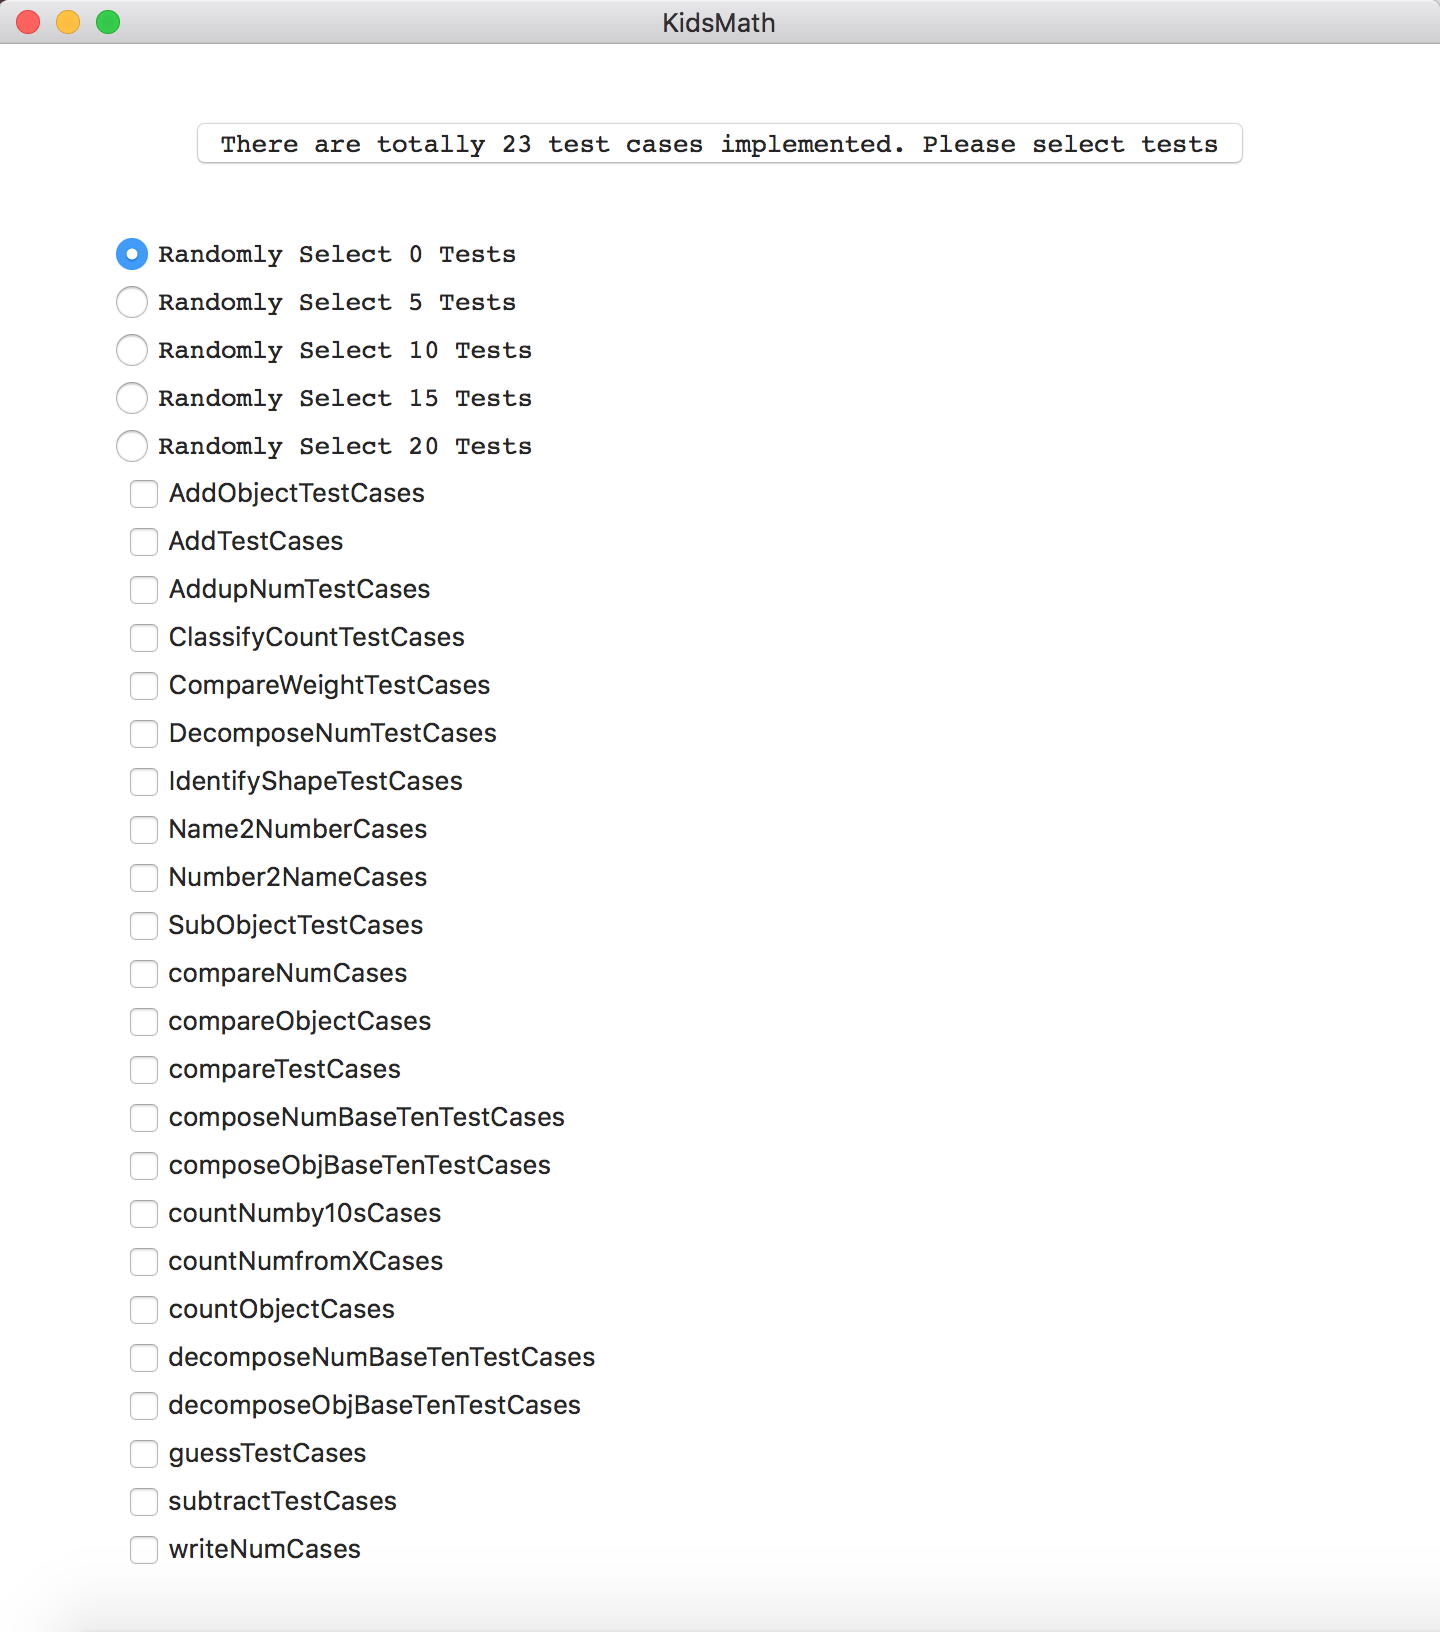
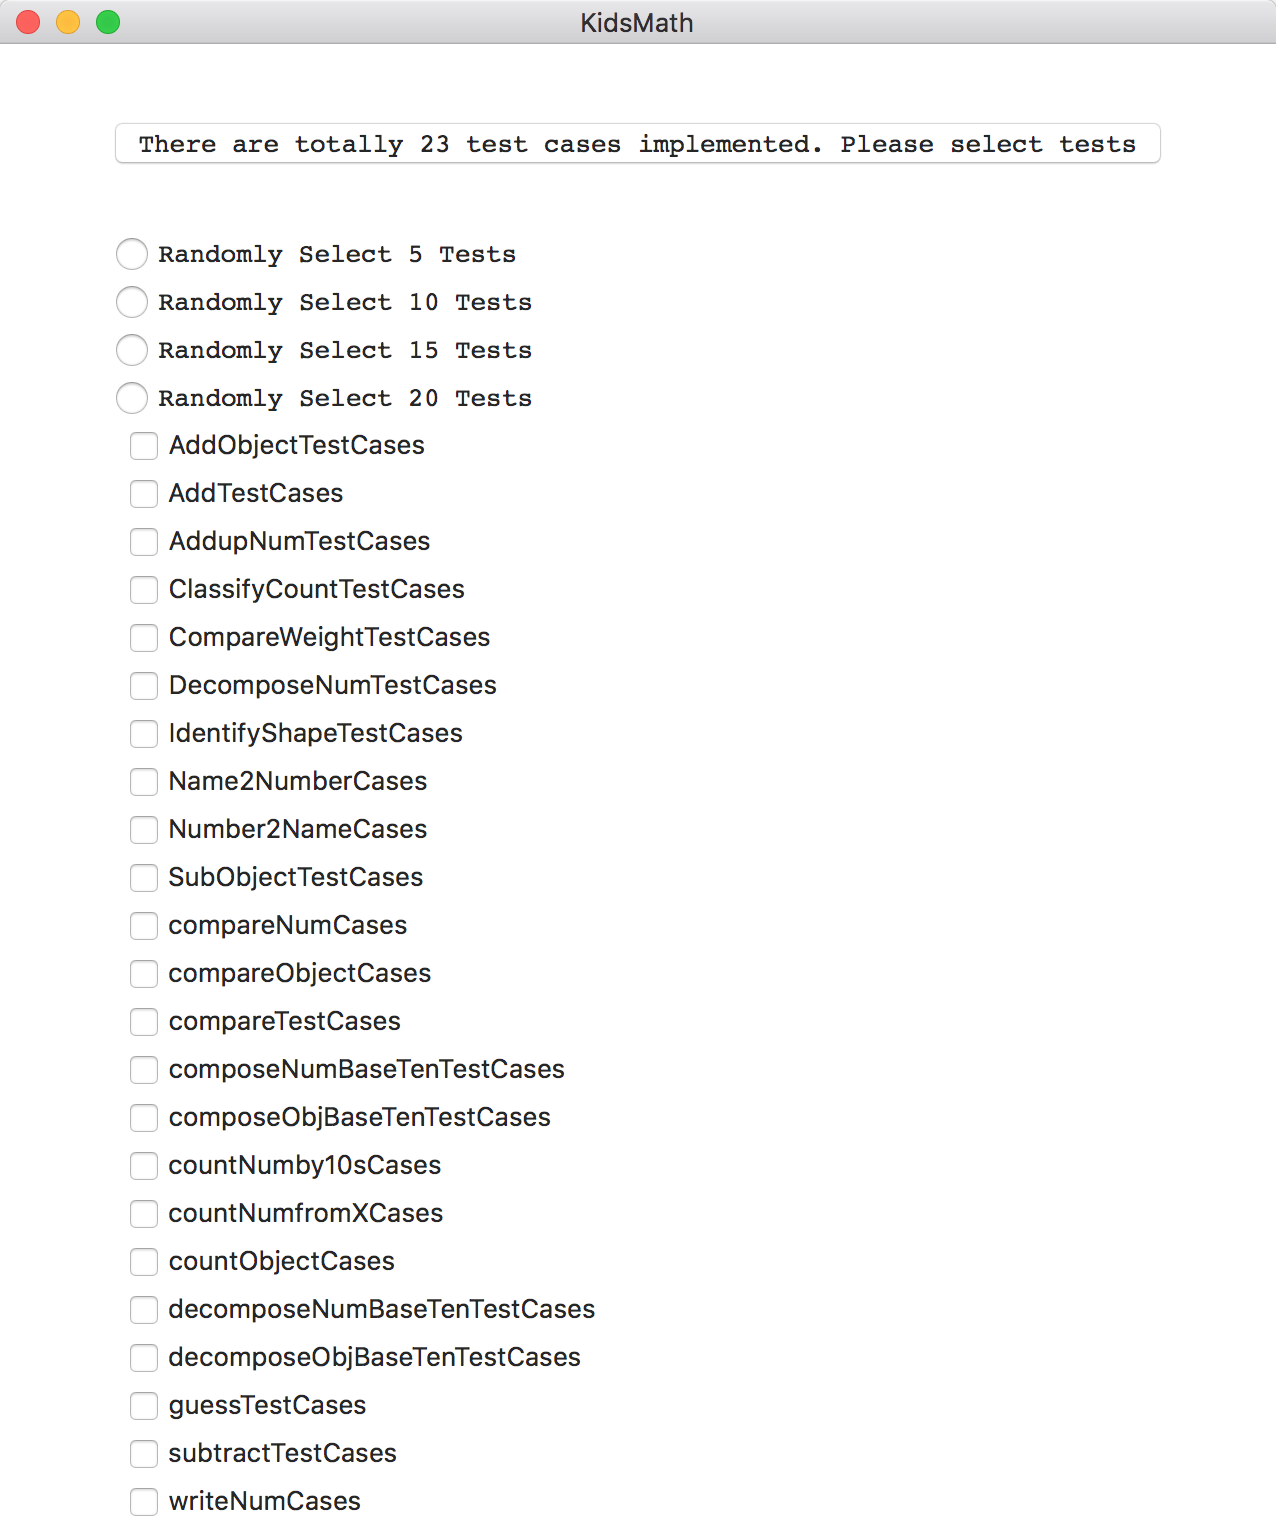
Update test case select

Changed region(s): [[0.0611, 0.0625, 0.8864, 1.0], [0.4585, 0.0, 0.5502, 0.0312], [0.0, 0.0, 0.0917, 0.0312]]

diff --git a/GUIs/gui.py b/GUIs/gui.py
@@ -153,7 +153,8 @@ class KidsMath(Frame):
         B0 = Button(self, text = 'There are totally {} test cases implemented. Please select tests'.format(len(self.alltestcases)), command=lambda: var.set(1), font=("Courier", 13))
         B0.pack(side=TOP, padx=50, pady=30)
 
-        randomList = [0, 5, 10, 15, 20]
+        self.v.set(-1)
+        randomList = [5, 10, 15, 20]
         self.radioButtons = []
         for i in range(len(randomList)):
             rb = Radiobutton(self, text = 'Randomly Select {} Tests'.format(randomList[i]), variable = self.v, value = i, font=("Courier", 13))
@@ -173,11 +174,12 @@ class KidsMath(Frame):
 
         RandomMethodList = []
         tests = self.alltestcases
-        for i in range(randomList[self.v.get()]):
-            secure_random = random.SystemRandom()
-            m = secure_random.choice(tests)
-            RandomMethodList.append(m)
-            tests.remove(m)
+        if self.v.get() >= 0:
+            for i in range(randomList[self.v.get()]):
+                secure_random = random.SystemRandom()
+                m = secure_random.choice(tests)
+                RandomMethodList.append(m)
+                tests.remove(m)
         self.selectedTests = RandomMethodList
 
         for i in range(len(checkvars)):
